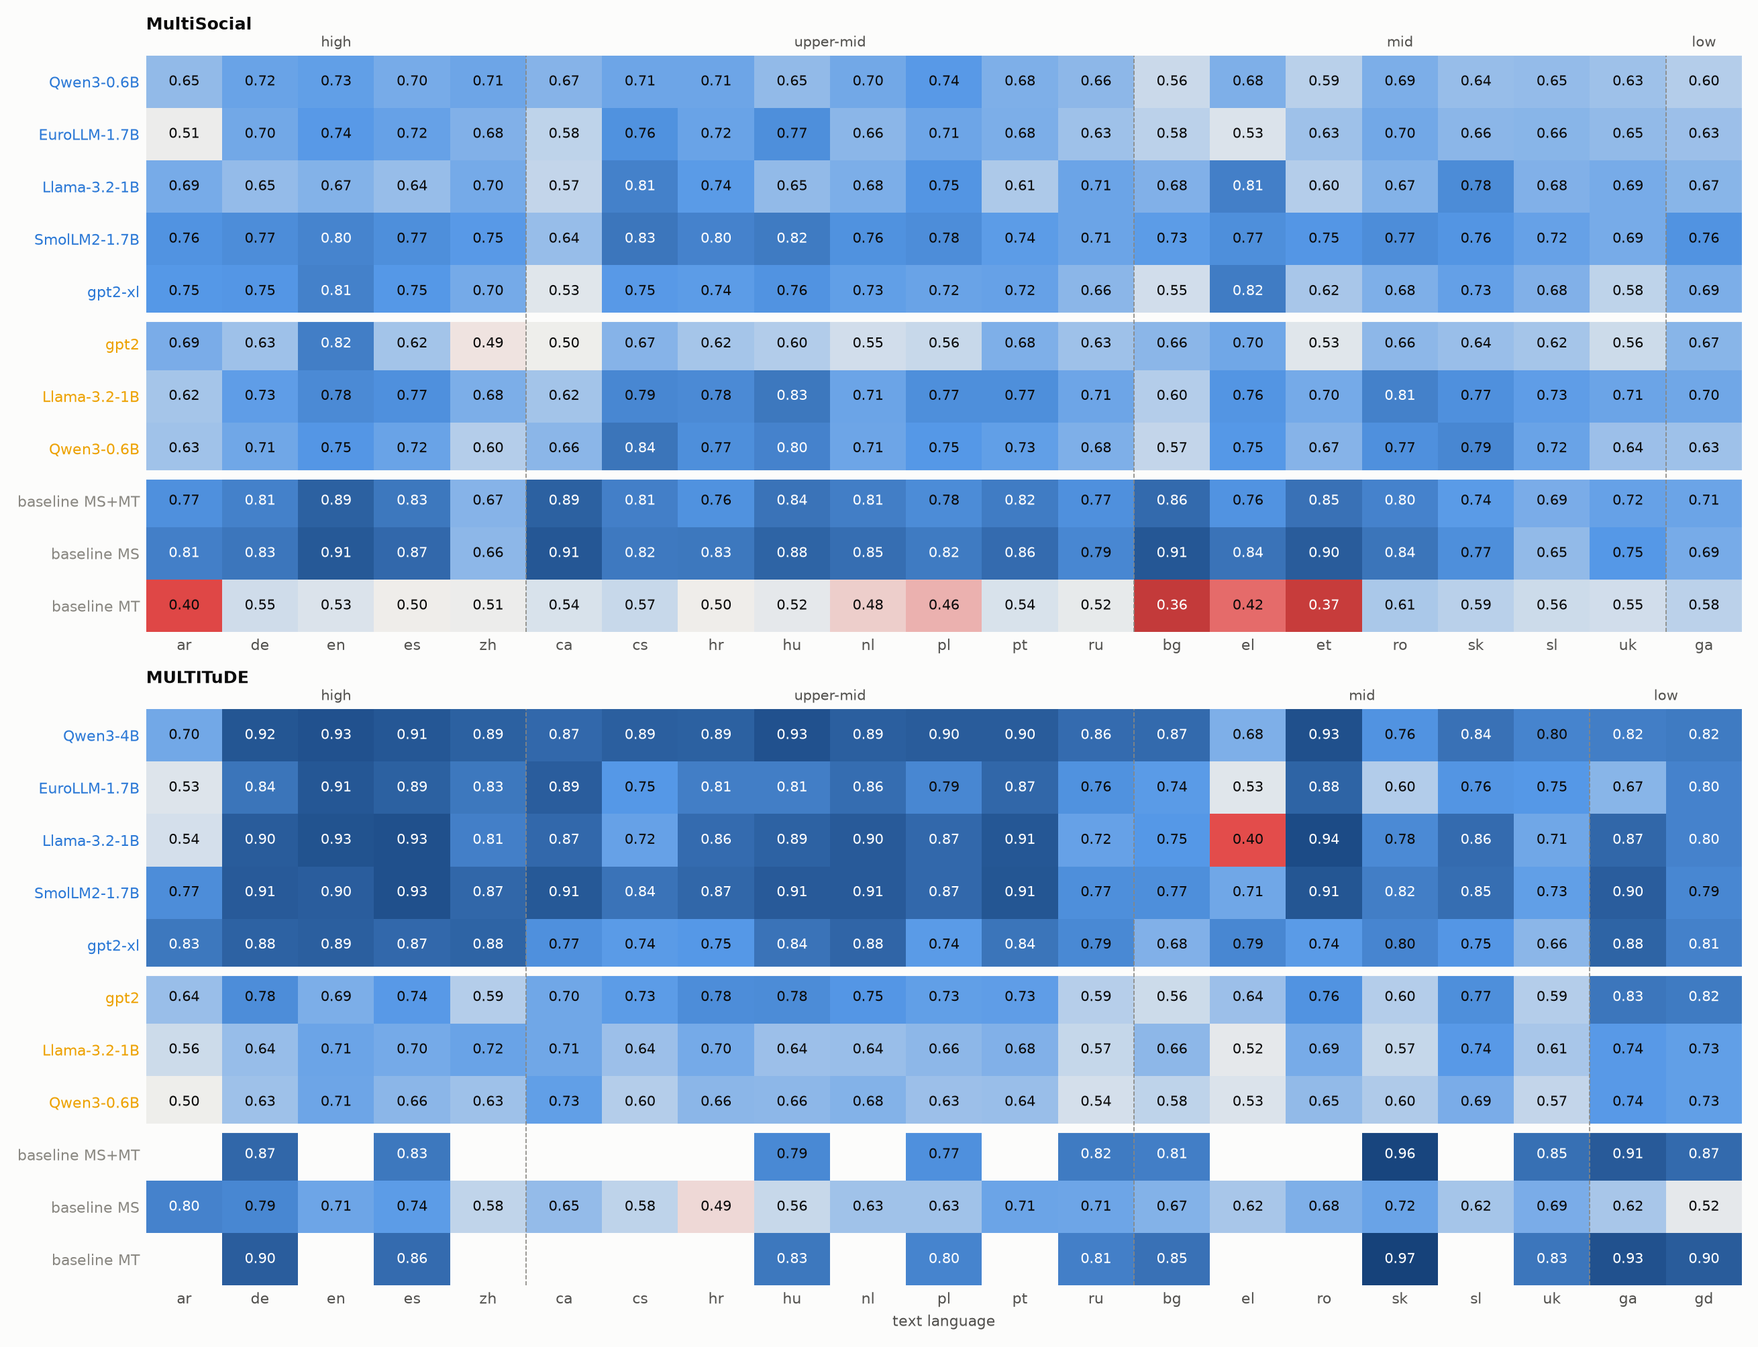
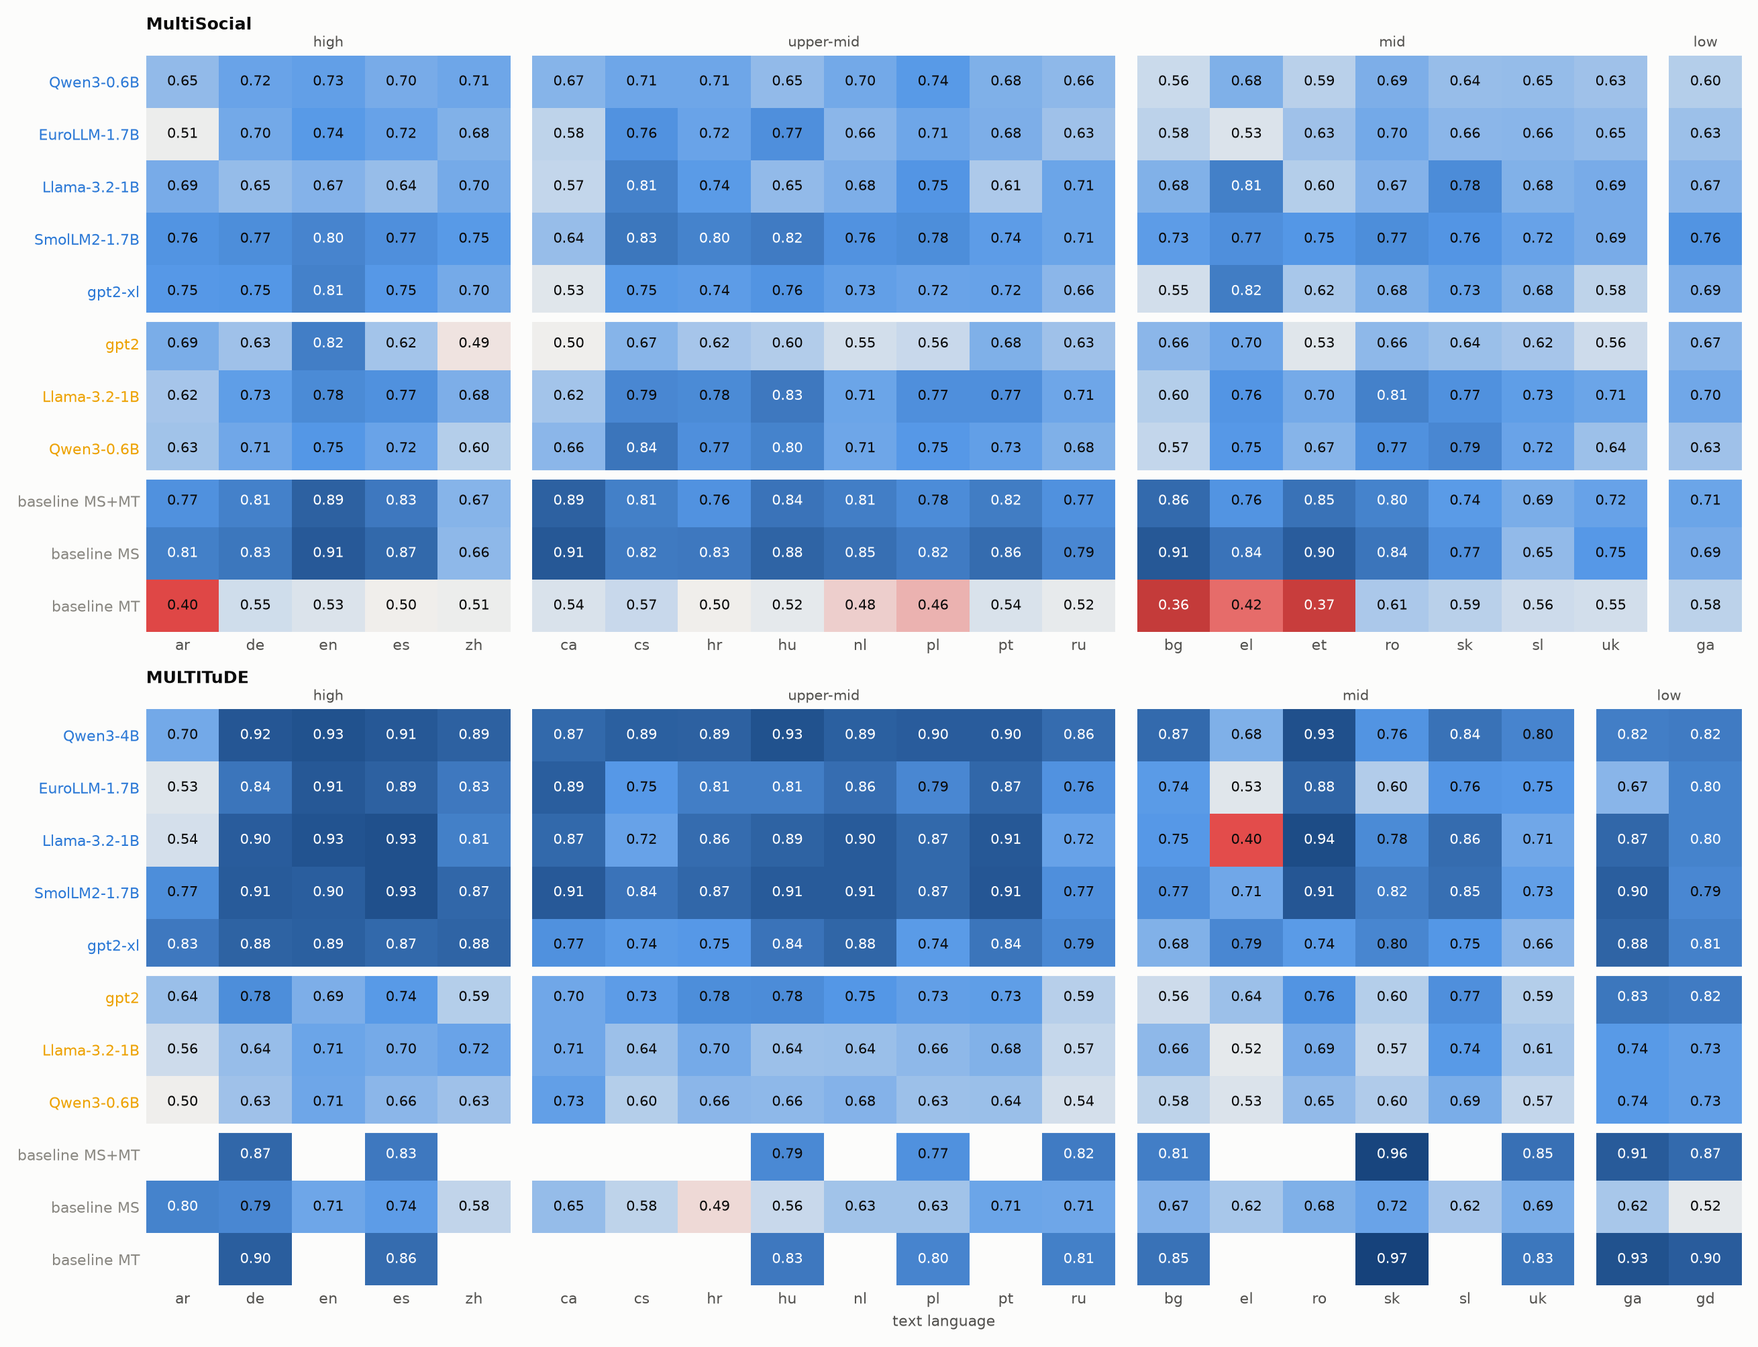
changed figures a bit

diff --git a/evaluation/figures.py b/evaluation/figures.py
@@ -1,15 +1,18 @@
 """The figures that end up in the final report.
 
 method_domains.png: every detector's AUC on MultiSocial against MULTITuDE
-language_resource.png: fastdetect's adjusted AUC per text language, one panel per dataset
+language_scoring_model.png: fastdetect per scoring model family and text language
 """
 
 from __future__ import annotations
 
+from collections.abc import Sequence
 from pathlib import Path
 
 import matplotlib.pyplot as plt
+from matplotlib.colors import TwoSlopeNorm
 from matplotlib.lines import Line2D
+from matplotlib.patches import Rectangle
 import numpy as np
 import pandas as pd
 
@@ -17,12 +20,19 @@ from evaluation.auc import plain_auc, standardize
 from evaluation.data import Detector, View
 from evaluation.groups import RESOURCE_LEVELS, baseline_languages, baseline_trained_on, by_resource_level, \
     resource_level
-from evaluation.style import INK, INK_SECONDARY, MUTED, SERIES, SURFACE, method_style, save
+from evaluation.style import AUC_CMAP, INK, INK_SECONDARY, MUTED, SURFACE, method_style, save
+
+
+FAMILIES = ["Qwen", "EuroLLM", "Llama", "SmolLM2", "GPT-2"]
+"""The scoring model families, from most to fewest training languages (119, 35, 8, English only)."""
+
+COLUMN_GAP = 0.3
+"""The whitespace between groups of heatmap columns, in cells."""
 
 
 def draw(view: View, output: Path) -> None:
     method_domains(view, output)
-    language_resource(view, output)
+    language_scoring_model(view, output)
 
 
 def dataset_name(dataset: str) -> str:
@@ -55,6 +65,46 @@ def adjusted_auc(view: View, by: list[str], detectors: list[Detector], scope: st
     return table
 
 
+def heatmap(ax, grid: pd.DataFrame, labels: list[str], colors: list[str], boxed: pd.DataFrame | None = None,
+            gaps: Sequence[int] = (), column_gaps: Sequence[int] = ()) -> list[float]:
+    """An annotated AUC heatmap. gaps adds a white line above those rows, column_gaps
+    whitespace left of those columns, boxed frames cells. Returns the columns' x positions."""
+    values = grid.to_numpy(dtype=float)
+    rows, columns = values.shape
+    x = [j + COLUMN_GAP * sum(g <= j for g in column_gaps) for j in range(columns)]
+    norm = TwoSlopeNorm(vmin=0.3, vcenter=0.5, vmax=1.0)
+    starts = [0, *column_gaps, columns]
+    for start, end in zip(starts, starts[1:]):  # one block of cells between every two gaps
+        ax.pcolormesh(np.arange(end - start + 1) + x[start] - 0.5, np.arange(rows + 1) - 0.5, values[:, start:end],
+                      cmap=AUC_CMAP, norm=norm, edgecolors="none")
+    ax.set_xlim(-0.5, x[-1] + 0.5)
+    ax.set_ylim(rows - 0.5, -0.5)
+    ax.grid(False)
+    for i, j in np.argwhere(~np.isnan(values)):
+        ax.text(x[j], i, f"{values[i, j]:.2f}", ha="center", va="center", fontsize=7.5,
+                color="white" if values[i, j] > 0.8 or values[i, j] < 0.38 else INK)
+    if boxed is not None:
+        for i, j in np.argwhere(boxed.to_numpy(dtype=bool)):
+            ax.add_patch(Rectangle((x[j] - 0.5, i - 0.5), 1, 1, fill=False, edgecolor=INK, linewidth=1.6))
+    for i in gaps:
+        ax.axhline(i - 0.5, color=SURFACE, linewidth=5)
+    ax.set_yticks(range(len(labels)))
+    ax.set_yticklabels(labels)
+    for tick, color in zip(ax.get_yticklabels(), colors):
+        tick.set_color(color)
+    ax.set_xticks(x)
+    ax.set_xticklabels(grid.columns)
+    for spine in ax.spines.values():
+        spine.set_visible(False)
+    ax.tick_params(length=0)
+    return x
+
+
+def resource_level_gaps(languages: list[str]) -> list[int]:
+    """The positions where the next resource level starts."""
+    return [i for i in range(1, len(languages)) if resource_level(languages[i]) != resource_level(languages[i - 1])]
+
+
 # method_domains.png
 
 
@@ -70,7 +120,7 @@ def method_domains(view: View, output: Path) -> None:
     for d in detectors:
         color, marker = method_style(d.method)
         x, y = auc[(d, "multitude")], auc[(d, "multisocial")]
-        size = 75 if marker == "^" else 42  # a triangle looks smaller than a circle or square of the same size
+        size = 125 if marker == "^" else 70  # a triangle looks smaller than a circle or square of the same size
         ax.scatter(x, y, color=color, marker=marker, s=size, edgecolors=SURFACE, linewidths=0.8, zorder=3)
         points.append((x, y, short_name(d), color))
     xs, ys = [p[0] for p in points], [p[1] for p in points]
@@ -82,16 +132,17 @@ def method_domains(view: View, output: Path) -> None:
     ax.set_ylabel("AUC on MultiSocial (social media)")
     methods = list(dict.fromkeys(d.method for d in detectors))
     handles = [Line2D([0], [0], color=method_style(m)[0], marker=method_style(m)[1], linestyle="none",
-                          markersize=9 if method_style(m)[1] == "^" else 7, label=m) for m in methods]
-    ax.legend(handles=handles, loc="lower left", fontsize=8)
+                          markersize=11.5 if method_style(m)[1] == "^" else 9, label=m) for m in methods]
+    ax.legend(handles=handles, loc="lower left", fontsize=9.5)
     finish(fig, output / "method_domains.png")
 
 
-def place_labels(ax, points: list[tuple[float, float, str, str]], fontsize: float = 6.5) -> None:
+def place_labels(ax, points: list[tuple[float, float, str, str]], fontsize: float = 8.75) -> None:
     """Labels next to their points, pushed apart so they don't overlap."""
     (left, right), (bottom, top) = ax.get_xlim(), ax.get_ylim()
     middle = np.median([x for x, _, _, _ in points])
-    gap = 0.026 * (top - bottom)
+    height = ax.get_window_extent().height * 72 / ax.figure.dpi  # the axes height in points
+    gap = 1.3 * fontsize / height * (top - bottom)  # one line of text, so the labels never overlap
     for side in (-1, 1):
         placed: list[float] = []
         chosen = sorted((p for p in points if (p[0] < middle) == (side < 0)), key=lambda p: p[1])
@@ -104,39 +155,32 @@ def place_labels(ax, points: list[tuple[float, float, str, str]], fontsize: floa
                         arrowprops={"arrowstyle": "-", "color": color, "linewidth": 0.4, "alpha": 0.6})
 
 
-# language_resource.png
+# language_scoring_model.png
 
 
-def language_resource(view: View, output: Path) -> None:
-    """fastdetect's adjusted AUC per text language, ordered by resource level, one panel per dataset."""
-    detectors = [d for d in view.detectors if d.method == "fastdetect"]
-    family = {d.key: d.model.family for d in detectors}
-    table = adjusted_auc(view, ["detector", "dataset", "language"], detectors, scope="dataset").dropna(subset=["auc"])
-    table["family"] = table["detector"].map(family)
-    families = list(dict.fromkeys(family.values()))
-    fig, axes = plt.subplots(len(view.datasets), 1, figsize=(9.5, 3.4 * len(view.datasets) + 0.9), squeeze=False)
+def language_scoring_model(view: View, output: Path) -> None:
+    """fastdetect's adjusted AUC per model family and language. Training languages are framed."""
+    fast = [d for d in view.detectors if d.method == "fastdetect"]
+    model = {d.key: d.model for d in fast}
+    training = {m.family: m.training_languages for m in model.values()}
+    table = adjusted_auc(view, ["detector", "dataset", "language"], fast, scope="dataset").dropna(subset=["auc"])
+    table["family"] = table["detector"].map({key: m.family for key, m in model.items()})
+    sizes = table.groupby("family")["detector"].nunique()
+    fig, axes = plt.subplots(len(view.datasets), 1, figsize=(11, 0.9 + 2.5 * len(view.datasets)), squeeze=False)
     for ax, dataset in zip(axes[:, 0], view.datasets):
         part = table[table["dataset"] == dataset]
+        families = [f for f in FAMILIES if f in set(part["family"])]
         languages = by_resource_level(part["language"])
-        for i, name in enumerate(families):
-            line = part[part["family"] == name].groupby("language")["auc"].mean().reindex(languages)
-            ax.plot(range(len(languages)), line.to_numpy(), color=SERIES[i + 1], marker="osD^v"[i % 5], markersize=4,
-                    linewidth=1.0, alpha=0.75, label=f"{name} (mean over sizes)", zorder=2)
-        mean = part.groupby("language")["auc"].mean().reindex(languages)
-        ax.plot(range(len(languages)), mean.to_numpy(), color=INK, linewidth=2.2, marker="o", markersize=5, zorder=3,
-                label="mean over all fastdetect detectors")
-        ax.axhline(0.5, linestyle=":", color=MUTED, linewidth=1.0, zorder=0)
-        ax.set_xticks(range(len(languages)))
-        ax.set_xticklabels(languages)
-        ax.set_xlim(-0.6, len(languages) - 0.4)
-        ax.grid(axis="x", visible=False)
-        mark_resource_levels(ax, languages, {language: i for i, language in enumerate(languages)})
-        ax.set_ylabel("AUC (adjusted)")
+        grid = part.groupby(["family", "language"])["auc"].mean().unstack().reindex(index=families, columns=languages)
+        boxed = pd.DataFrame([[language in training[f] for language in languages] for f in families],
+                             index=families, columns=languages)
+        labels = [f"{f} (mean of sizes)" if sizes[f] > 1 else f for f in families]
+        x = heatmap(ax, grid, labels, [INK_SECONDARY] * len(families), boxed=boxed,
+                    column_gaps=resource_level_gaps(languages))
+        mark_resource_levels(ax, languages, dict(zip(languages, x)), separators=False)
         ax.set_title(dataset_name(dataset), loc="left", fontweight="bold", pad=14)
     axes[-1, 0].set_xlabel("text language")
-    handles, labels = axes[0, 0].get_legend_handles_labels()
-    fig.legend(handles, labels, loc="lower center", ncol=3, fontsize=7)
-    finish(fig, output / "language_resource.png", bottom=0.09)
+    finish(fig, output / "language_scoring_model.png")
 
 
 def finish(fig, path: Path, bottom: float = 0.0) -> None:
@@ -145,13 +189,13 @@ def finish(fig, path: Path, bottom: float = 0.0) -> None:
     save(fig, path)
 
 
-def mark_resource_levels(ax, languages: list[str], x: dict[str, int]) -> None:
-    """A separator between resource levels and the level's name above its languages."""
+def mark_resource_levels(ax, languages: list[str], x: dict[str, float], separators: bool = True) -> None:
+    """A separator between resource levels (unless separators is False) and the level's name above its languages."""
     for level in RESOURCE_LEVELS:
         positions = [x[language] for language in languages if resource_level(language) == level]
         if not positions:
             continue
-        if min(positions) > 0:
+        if separators and min(positions) > 0:
             ax.axvline(min(positions) - 0.5, color=MUTED, linewidth=0.6, linestyle="--")
         ax.text((min(positions) + max(positions)) / 2, 1.01, level, transform=ax.get_xaxis_transform(), ha="center",
                 va="bottom", fontsize=7.5, color=INK_SECONDARY)

diff --git a/evaluation/appendix.py b/evaluation/appendix.py
@@ -2,7 +2,7 @@
 
 method_{length,language,generator}.png: AUC per detector and text length / language / generator
 language_baselines.png: baselines on their own training languages and on the others
-language_scoring_model.png: fastdetect per scoring model family and text language
+language_resource.png: fastdetect's adjusted AUC per text language, one panel per dataset
 language_ab_test.png: an English-only against a multilingual scoring model of the same size
 size.png: fastdetect against the size of its scoring model
 """
@@ -11,36 +11,30 @@ from __future__ import annotations
 
 from pathlib import Path
 
-from collections.abc import Sequence
 from typing import Literal
 
 import matplotlib.pyplot as plt
 import numpy as np
 import pandas as pd
-from matplotlib.colors import TwoSlopeNorm
 from matplotlib.lines import Line2D
-from matplotlib.patches import Rectangle
 from matplotlib.ticker import NullFormatter
 
 from evaluation.auc import LENGTH_LABELS
 from evaluation.data import Detector, View
-from evaluation.figures import adjusted_auc, dataset_name, finish, mark_resource_levels, short_name
+from evaluation.figures import FAMILIES, adjusted_auc, dataset_name, finish, heatmap, mark_resource_levels, \
+    resource_level_gaps, short_name
 from evaluation.groups import baseline_languages, baseline_trained_on, baseline_training_languages, by_resource_level
-from evaluation.style import AUC_CMAP, INK, INK_SECONDARY, SERIES, SURFACE, method_style
+from evaluation.style import INK, INK_SECONDARY, MUTED, SERIES, SURFACE, method_style
 
 GENERATORS = ["gpt-3.5-turbo-0125", "gemini", "Llama-2-70b-chat-hf", "vicuna-13b", "Mistral-7B-Instruct-v0.2",
               "aya-101", "opt-iml-max-30b", "v5-Eagle-7B-HF"]
 """The models that wrote the machine texts, in the order the figures show them."""
 
-FAMILIES = ["Qwen", "EuroLLM", "Llama", "SmolLM2", "GPT-2"]
-"""The scoring model families, from most to fewest training languages (119, 35, 8, English only)."""
-
-
 def draw(view: View, output: Path) -> None:
     for variable in ("length", "language", "generator"):
         method_heatmap(view, variable, output)
+    language_resource(view, output)
     language_baselines(view, output)
-    language_scoring_model(view, output)
     language_ab_test(view, output)
     size(view, output)
 
@@ -74,31 +68,6 @@ def dataset_style(dataset: str) -> tuple[str, Literal["-", "--"]]:
             return "o", "-"
         case _:
             return "s", "--"
-
-
-def heatmap(ax, grid: pd.DataFrame, labels: list[str], colors: list[str], boxed: pd.DataFrame | None = None,
-            gaps: Sequence[int] = ()) -> None:
-    """An annotated AUC heatmap. gaps adds a white line above those rows, boxed frames cells."""
-    values = grid.to_numpy(dtype=float)
-    ax.imshow(values, cmap=AUC_CMAP, norm=TwoSlopeNorm(vmin=0.3, vcenter=0.5, vmax=1.0), aspect="auto")
-    ax.grid(False)
-    for i, j in np.argwhere(~np.isnan(values)):
-        ax.text(j, i, f"{values[i, j]:.2f}", ha="center", va="center", fontsize=7.5,
-                color="white" if values[i, j] > 0.8 or values[i, j] < 0.38 else INK)
-    if boxed is not None:
-        for i, j in np.argwhere(boxed.to_numpy(dtype=bool)):
-            ax.add_patch(Rectangle((j - 0.5, i - 0.5), 1, 1, fill=False, edgecolor=INK, linewidth=1.6))
-    for i in gaps:
-        ax.axhline(i - 0.5, color=SURFACE, linewidth=5)
-    ax.set_yticks(range(len(labels)))
-    ax.set_yticklabels(labels)
-    for tick, color in zip(ax.get_yticklabels(), colors):
-        tick.set_color(color)
-    ax.set_xticks(range(values.shape[1]))
-    ax.set_xticklabels(grid.columns)
-    for spine in ax.spines.values():
-        spine.set_visible(False)
-    ax.tick_params(length=0)
 
 
 # method_<variable>.png
@@ -152,13 +121,49 @@ def method_heatmap(view: View, variable: str, output: Path) -> None:
                              gridspec_kw={"height_ratios": heights}, squeeze=False)
     for ax, (dataset, detectors, grid) in zip(axes[:, 0], panels):
         gaps = [i for i in range(1, len(detectors)) if detectors[i].method != detectors[i - 1].method]
-        heatmap(ax, grid, [short_name(d) for d in detectors], [method_style(d.method)[0] for d in detectors],
-                        gaps=gaps)
+        columns = list(grid.columns)
+        x = heatmap(ax, grid, [short_name(d) for d in detectors], [method_style(d.method)[0] for d in detectors],
+                    gaps=gaps, column_gaps=resource_level_gaps(columns) if variable == "language" else ())
         if variable == "language":
-            mark_resource_levels(ax, list(grid.columns), {language: i for i, language in enumerate(grid.columns)})
+            mark_resource_levels(ax, columns, dict(zip(columns, x)), separators=False)
         ax.set_title(dataset_name(dataset), loc="left", fontweight="bold", pad=14 if variable == "language" else 6)
     axes[-1, 0].set_xlabel(name)
     finish(fig, output / f"method_{variable}.png")
+
+
+# language_resource.png
+
+
+def language_resource(view: View, output: Path) -> None:
+    """fastdetect's adjusted AUC per text language, ordered by resource level, one panel per dataset."""
+    detectors = [d for d in view.detectors if d.method == "fastdetect"]
+    family = {d.key: d.model.family for d in detectors}
+    table = adjusted_auc(view, ["detector", "dataset", "language"], detectors, scope="dataset").dropna(subset=["auc"])
+    table["family"] = table["detector"].map(family)
+    families = list(dict.fromkeys(family.values()))
+    fig, axes = plt.subplots(len(view.datasets), 1, figsize=(9.5, 3.4 * len(view.datasets) + 0.9), squeeze=False)
+    for ax, dataset in zip(axes[:, 0], view.datasets):
+        part = table[table["dataset"] == dataset]
+        languages = by_resource_level(part["language"])
+        for i, name in enumerate(families):
+            line = part[part["family"] == name].groupby("language")["auc"].mean().reindex(languages)
+            ax.plot(range(len(languages)), line.to_numpy(), color=SERIES[i + 1], marker="osD^v"[i % 5], markersize=4,
+                    linewidth=1.0, alpha=0.75, label=f"{name} (mean over sizes)", zorder=2)
+        mean = part.groupby("language")["auc"].mean().reindex(languages)
+        ax.plot(range(len(languages)), mean.to_numpy(), color=INK, linewidth=2.2, marker="o", markersize=5, zorder=3,
+                label="mean over all fastdetect detectors")
+        ax.axhline(0.5, linestyle=":", color=MUTED, linewidth=1.0, zorder=0)
+        ax.set_xticks(range(len(languages)))
+        ax.set_xticklabels(languages)
+        ax.set_xlim(-0.6, len(languages) - 0.4)
+        ax.grid(axis="x", visible=False)
+        mark_resource_levels(ax, languages, {language: i for i, language in enumerate(languages)})
+        ax.set_ylabel("AUC (adjusted)")
+        ax.set_title(dataset_name(dataset), loc="left", fontweight="bold", pad=14)
+    axes[-1, 0].set_xlabel("text language")
+    handles, labels = axes[0, 0].get_legend_handles_labels()
+    fig.legend(handles, labels, loc="lower center", ncol=3, fontsize=7)
+    finish(fig, output / "language_resource.png", bottom=0.09)
 
 
 # language_baselines.png
@@ -203,33 +208,6 @@ def language_baselines(view: View, output: Path) -> None:
         heatmap(ax, grid, [baseline_label(d) for d in baselines], [INK_SECONDARY] * len(baselines), gaps=gaps)
         ax.set_title(dataset_name(dataset), fontweight="bold")
     finish(fig, output / "language_baselines.png")
-
-
-# language_scoring_model.png
-
-
-def language_scoring_model(view: View, output: Path) -> None:
-    """fastdetect's adjusted AUC per model family and language. Training languages are framed."""
-    fast = [d for d in view.detectors if d.method == "fastdetect"]
-    model = {d.key: d.model for d in fast}
-    training = {m.family: m.training_languages for m in model.values()}
-    table = adjusted_auc(view, ["detector", "dataset", "language"], fast, scope="dataset").dropna(subset=["auc"])
-    table["family"] = table["detector"].map({key: m.family for key, m in model.items()})
-    sizes = table.groupby("family")["detector"].nunique()
-    fig, axes = plt.subplots(len(view.datasets), 1, figsize=(11, 0.9 + 2.5 * len(view.datasets)), squeeze=False)
-    for ax, dataset in zip(axes[:, 0], view.datasets):
-        part = table[table["dataset"] == dataset]
-        families = [f for f in FAMILIES if f in set(part["family"])]
-        languages = by_resource_level(part["language"])
-        grid = part.groupby(["family", "language"])["auc"].mean().unstack().reindex(index=families, columns=languages)
-        boxed = pd.DataFrame([[language in training[f] for language in languages] for f in families],
-                             index=families, columns=languages)
-        labels = [f"{f} (mean of sizes)" if sizes[f] > 1 else f for f in families]
-        heatmap(ax, grid, labels, [INK_SECONDARY] * len(families), boxed=boxed)
-        mark_resource_levels(ax, languages, {language: i for i, language in enumerate(languages)})
-        ax.set_title(dataset_name(dataset), loc="left", fontweight="bold", pad=14)
-    axes[-1, 0].set_xlabel("text language")
-    finish(fig, output / "language_scoring_model.png")
 
 
 # language_ab_test.png
